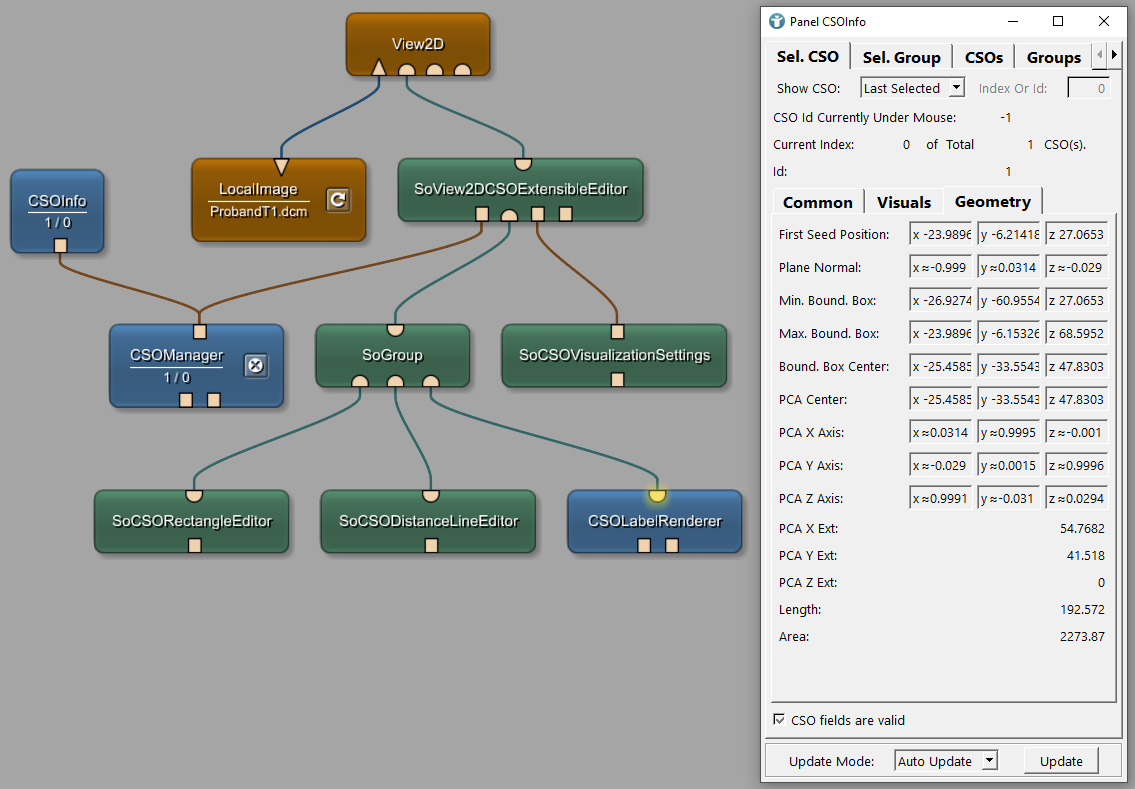
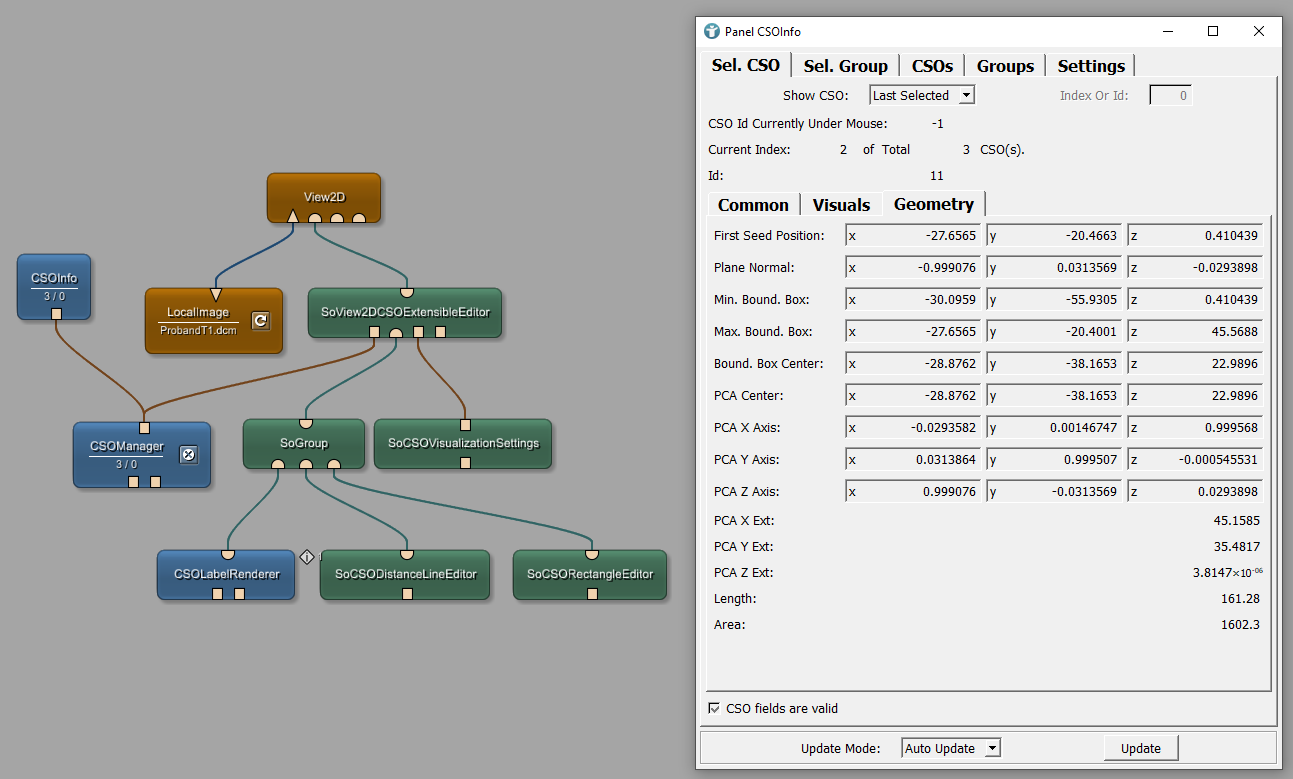
Added new tutorial and new entry to tips and tricks

diff --git a/mevislab.github.io/content/tutorials/dataobjects/contours/contourexample6.md b/mevislab.github.io/content/tutorials/dataobjects/contours/contourexample6.md
@@ -16,112 +16,216 @@ menu:
 
 ## Introduction
 
-In this example, we like to add a label to a contour. The label provides information about measurements and about the contour itself. The label remains connected to the contour and can be moved via mouse interactions.
+In this example, we are adding a label to a contour. The label provides information about measurements and about the contour itself. The label remains connected to the contour and can be moved via mouse interactions.
 
 ## Steps to do
 ### Develop your network
 
-Add the following modules to your workspace and connect them as shown. Load the example DICOM image *ProbandT1.dcm*.
+Add a `LocalImage` and a `View2D` module to your workspace and connect them as shown below. Load the file *ProbandT1.dcm* from MeVisLab demo data. In order to create contours (CSOs), we need a `SoView2DCSOExtensibleEditor` module. It manages attached CSO editors, renderers and offers an optional default renderer for all types of CSOs.
 
-![Data Objects Contours Example 6](/images/tutorials/dataobjects/contours/Ex6_1.png "Data Objects Contours Example 6")
+The first CSO we want to create is a distance line. Add a `SoCSODistanceLineEditor` to the `SoView2DCSOExtensibleEditor`. It renders and interactively generates CSOs that consist of a single line segment. The line segment can be rendered as an arrow; it can be used to measure distances.
 
-The `SoView2DCSOExtensibleEditor` manages attached CSO editors and renderers and offers an optional default renderer for all types of CSOs.
+We are going to add some more editors later. In order to have the same look and feel for all types of CSOs, add a `SoCSOVisualizationSettings` module as seen below. The module is used to adjust visual parameters like color and line style for CSOs. Also add a `CSOManager` module to organize CSOs and CSOGroups within a network.
 
-The `SoCSODistanceLineEditor` renders and interactively generates CSOs that consist of a single line segment. The line segment can be rendered as an arrow; it can be used to measure distances.
+![Initial Network](/images/tutorials/dataobjects/contours/Ex6_1.png "Initial Network")
 
-The `SoCSOVisualizationSettings` module is used to adjust visual parameters like color and line style for CSOs, while the `CSOManager` module organizes CSOs and CSOGroups within a network.
+We are now able to create lines in the `View2D`. You can also modify the lines by dragging the seed points to a different location.
 
-By using these modules, we can effectively work with CSOs in our workspace, allowing us to draw single lines, for example, to measure distances on images.
+![SoCSODistanceLineEditor](/images/tutorials/dataobjects/contours/Ex6_2.png "SoCSODistanceLineEditor")
 
-![DistanceLine](/images/tutorials/dataobjects/contours/Ex6_2.png "DistanceLine")
+The created lines do neither provide any details about the length of your measurement, nor a unique ID to identify it in case of multiple CSOs.
 
-Next, we want to add a label to the distance line showing the distance between the two points of our measurement. To achieve this, we'll use the `CSOLabelRenderer` module. Begin by adding a `SoGroup` and connecting both the `CSOLabelRenderer` and the `SoCSODistanceLineEditor` to the `SoGroup`. After moving the label with mouse, the *name* will appear above the line as illustrated below. 
-
-Adding the CSOLabelRenderer, the ID of the CSO is shown next to the measurement for all previously created CSOs. All newly created CSOs will also show the ID
+Add a `CSOLabelRenderer` module to your network and connect it to a `SoGroup`. Also connect your `SoCSODistanceLineEditor` to the `SoGroup` as seen below. The *ID* of each CSO appears next to your distance lines. Moving the ID also shows the *name* of the contour.
 
 ![CSOLabelRenderer](/images/tutorials/dataobjects/contours/Ex6_14.png "CSOLabelRenderer")
 
-The `CSOLabelRenderer` module is responsible for rendering labels for CSOs in the medical imaging context. These labels can be configured using Python scripting.
+We now want to customize the details to be shown for each distance line. Open the panel of the `CSOLabelRenderer`. You can see the two parameters *labelString* and *labelName*. The *labelString* is set to the *ID* of the CSO. The *labelName* is set to a static text and the *label* property of the CSO. The label can be defined in the module `CSOManager`. You can do this, but we are not defining a name for each contour in this example.
 
-To ensure synchronization between modules and specify the active editor for creating *distanceLine* CSOs, we need to set the same *Extension Id* in both the `SoCSODistanceLineEditor` and `SoView2DCSOExtensibleEditor` modules. In the `SoView2DCSOExtensibleEditor` module, navigate to the *General* tab and locate the *Creator Extension Id* field. Here, input the same *Extension Id* used in the `SoCSODistanceLineEditor` module. This ensures proper coordination and enables the creation of new *distanceline* CSOs using the designated editor.
-
-![Setting Extension Id in SoView2DCSOExtensibleEditor](/images/tutorials/dataobjects/contours/Example6_5.png "Setting Extension Id in SoView2DCSOExtensibleEditor")
-
-When connected to a `SoView2DCSOExtensibleEditor`, the `CSOLabelRenderer` module allows access to the currently rendered CSO. Python scripting is used to configure the labels and to define the properties of the label displayed for each CSO in the viewer. *labelString* is set to the unique ID of each CSO, while *labelName* combines the word *name* with the label assigned to the CSO. *deviceOffsetX* and *deviceOffsetY* determine the label's position relative to the CSO, both set to 0 for direct overlay. The labeling displaying the number 1 represent a default label because no specific name is provided for the CSO.
-
-Replace the default *Label Code* with the following script:
-
-{{< highlight filename="" >}}
+Enter the following to the panel of the `CSOLabelRenderer` module:
+{{< highlight filename="CSOLabelRenderer" >}}
 ```Python
-if cso.getSubType() == 'distanceLine':
-    labelString = 'Length: ' + str(cso.getLength())
-    labelName = 'Distance '
-else:
-    labelString = ''
-    labelName = ''
+labelString = 'Length: ' + str(cso.getLength())
+labelName = 'Distance: '
 labelName += str(cso.getId())
-labelCaption = labelName + ":  "
-
+deviceOffsetX = 0
+deviceOffsetY = 0
 ```
 {{</highlight>}}
 
-This script will ensure that the label displays the length of the line for *distanceLine* CSOs and remains empty for other CSO types.
+We are setting the *labelName* to a static text showing the type of the CSO and the unique *ID* of the contour. We also define the *labelString* to the static description of the measurement and the *length* parameter of the CSO.
 
-![Labeled DistanceLine in View2D](/images/tutorials/dataobjects/contours/Ex6_11.png "Labeled DistanceLine in View2D")
+![labelString and labelName](/images/tutorials/dataobjects/contours/Example6_5.png "labelString and labelName")
 
-In the `CSOLabelRenderer` panel, head to the *Options* tab. Here, you can fine-tune various settings to enhance the appearance of CSO labels. Set the *Label Border Margin X* to *5* to create a margin around selected CSOs. Increase the *Font Size* to *15* for larger and more readable text. Additionally, adjust the *Min Connecting Line Length* to *15* to specify a minimum distance for drawing connecting lines, maintaining a clean and organized layout. 
+You can also round the length by using:
+{{< highlight filename="CSOLabelRenderer" >}}
+```Python
+labelString = 'Length: ' + str(round(cso.getLength(), 2)) + ' mm'
+```
+{{</highlight>}}
 
-![CSOLabelRendering Options](/images/tutorials/dataobjects/contours/Ex6_6.png "CSOLabelRendering Options")
+In order to see all possible parameters of a CSO, add a `CSOInfo` module to your network and connect it to the `CSOManager`. The geometric informations of the selected CSO from `CSOManager` can be seen there.
 
-Now, let's proceed with another type of CSO and follow similar steps. Add the `SoCSORectangleEditor` module to your workspace and connect it to the `SoGroup` module.
+![CSOInfo](/images/tutorials/dataobjects/contours/Ex6_CSOInfo.png "CSOInfo")
 
-![SoCSORectangleEditor](/images/tutorials/dataobjects/contours/Ex6_7.png "SoCSORectangleEditor")
+For labels shown on greyscale images, it makes sense to add a shadow to your labels. Open the panel of the `SoCSOVisualizationSettings` module and on tab *Misc* check option *Should render shadow*. This increases readability of your labels.
 
-Ensure to update the *Creator Extension Id* field in the `SoView2DCSOExtensibleEditor` module with the *Extension Id* of the `SoCSORectangleEditor` module.
+{{< imagegallery 2 "/images/tutorials/dataobjects/contours/" "Ex6_NoShadow" "Ex6_Shadow" >}}
+
+If you want to define your static text as a parameter in multiple labels, you can open the panel of the `CSOLabelRenderer` module and define text as User Data. The values can then be used in Python via *userData*.
+
+![User Data](/images/tutorials/dataobjects/contours/Ex6_Parameters.png "User Data")
+
+You can also add multiple CSO editors to see the different options. Add the `SoCSORectangleEditor` module to your workspace and connect it to the `SoGroup` module. As we now have two different editors, we need to tell the `CSOLabelRenderer` which CSO to be rendered how. Open the panel of the `SoCSODistanceLineEditor`. You can see the field *Extension Id* set to *distanceLine*. Open the panel of the `SoCSORectangleEditor`. You can see the field *Extension Id* set to *rectangle*.
+
+![Extension ID](/images/tutorials/dataobjects/contours/Ex6_ExtensionID.png "Extension ID")
+
+We currently defined the *labelName* and *labelString* for the distance line. If we want to define different labels for different types of CSOs, we have to change the `CSOLabelRenderer` Python script. Open the panel of the `CSOLabelRenderer` and change the Python code to the following:
+
+{{< highlight filename="CSOLabelRenderer" >}}
+```Python
+if cso.getSubType() == 'distanceLine':
+  labelString = userData0 + str(round(cso.getLength(), 2)) + ' mm'
+  labelName = userData1
+  labelName += str(cso.getId())
+elif cso.getSubType() == 'rectangle':
+  labelString = userData0 + str(round(cso.getLength(), 2)) + ' mm\n'
+  labelString += userData2 + str(round(cso.getArea(), 2)) + ' mm^2'
+  labelName = userData3
+  labelName += str(cso.getId())
+deviceOffsetX = 0
+deviceOffsetY = 0
+```
+{{</highlight>}}
+
+![SoCSORectangleEditor](/images/tutorials/dataobjects/contours/Ex6_LineAndRectangle.png "SoCSORectangleEditor")
+
+If you now draw new CSOs, you will notice that you still always create distance lines. Open the panel of the `SoView2DCSOExtensibleEditor`. You can see that the *Creator Extension Id* is set to *__default*. By default, the first found eligible editor is used to create a new CSO. In our case this is the `SoCSODistanceLineEditor`.
+
+![SoCSORectangleEditor](/images/tutorials/dataobjects/contours/Ex6_DefaultExtension.png "SoCSORectangleEditor")
+
+Change *Creator Extension Id* to *rectangle*.
 
 ![SoCSORectangleEditor & SoView2DCSOExtensibleEditor ](/images/tutorials/dataobjects/contours/Ex6_8.png "SoCSORectangleEditor & SoView2DCSOExtensibleEditor")
 
-Open the `CSOLabelRenderer` panel and add similar script as for the *distanceLine* subtype, but include *Area* calculation as well, since we are dealing with a rectangle.
-
-{{< highlight filename="" >}}
-```Python
-...
-elif cso.getSubType() == 'rectangle':
-    labelString = str('Length: ') + str(cso.getLength()) + '\n'
-    labelString += str('Area: ') + str(cso.getArea()) + '\n'
-    labelName = 'Rectangle '
-...
-```
-{{</highlight>}}
+Newly created CSOs are now rectangles. The label values are shown as defined in the `CSOLabelRenderer` and show the length and the area of the rectangle.
 
 ![Labeled Rectangle in View2D](/images/tutorials/dataobjects/contours/Ex6_9.png "Labeled Rectangle in View2D")
 
 {{<alert class="info" caption="Extra Infos">}}
-
 The *Length* attribute in the context of rectangles represents the perimeter of the rectangle, calculated as *2a + 2b*, where *a* and *b* are the lengths of the two sides of the rectangle.
-
 {{</alert>}}
 
-Connect the `CSOInfo` module to the `CSOManager` module in your network. Then, navigate to the *Geometry* tab to access detailed information about the width (*PCA X EXT*) and height (*PCA Y EXT*) of the rectangles. 
+You will find a lot more information in the `CSOInfo` module for your rectangles. The exact meaning of the values for each type of CSO is explained in the table below.
 
 ![CSOInfo](/images/tutorials/dataobjects/contours/Ex6_10.png "CSOInfo")
 
-
-To define label placement, connect a `CSOLabelPlacementLocal` module to your `CSOLaberRenderer`. This offers three positioning options: *Seed Point*, where labels align with the right-most seed point; *Path Point*, aligning with the right-most path point; or *Seed or Path Point*, which considers both for optimal placement. 
-
-![CSOLabelPlacementLocal](/images/tutorials/dataobjects/contours/Ex6_13.png "CSOLabelPlacementLocal")
-
-{{<alert class="info" caption="Extra Infos">}}
-
-When working with an ellipse, the *length* means the perimeter around its curved edge, not its width or height. Unlike a rectangle, an ellipse doesn't have sharp corners, so its *length* is the total distance around its outer curve. You calculate it by adding twice the length of its longer side (called the major axis, represented by *a*) and twice the length of its shorter side (called the minor axis, represented by *b*), often denoted as *2πa + 2πb*. 
-
-{{</alert>}}
+## Parameters and meanings for all CSO types
+<table class="table table-striped">
+  <thead>
+    <tr>
+      <th>CSO Editor</th>
+      <th>PCA X Ext.</th>
+      <th>PCA Y Ext.</th>
+      <th>PCA Z Ext.</th>
+      <th>Length</th>
+      <th>Area</th>
+    </tr>
+  </thead>
+  <tbody>
+    <tr>
+      <td>SoCSOPointEditor</td>
+      <td>n.a.</td>
+      <td>n.a.</td>
+      <td>n.a.</td>
+      <td>n.a.</td>
+      <td>n.a.</td>
+    </tr>
+    <tr>
+      <td>SoCSOAngleEditor</td>
+      <td></td>
+      <td></td>
+      <td></td>
+      <td></td>
+      <td></td>
+    </tr>
+    <tr>
+      <td>SoCSOArrowEditor</td>
+      <td></td>
+      <td></td>
+      <td></td>
+      <td></td>
+      <td></td>
+    </tr>
+    <tr>
+      <td>SoCSODistanceLineEditor</td>
+      <td></td>
+      <td></td>
+      <td></td>
+      <td>Length (in mm)</td>
+      <td></td>
+    </tr>
+    <tr>
+      <td>SoCSODistancePolylineEditor</td>
+      <td></td>
+      <td></td>
+      <td></td>
+      <td>Length of all lines (in mm)</td>
+      <td></td>
+    </tr>
+    <tr>
+      <td>SoCSOEllipseEditor</td>
+      <td></td>
+      <td></td>
+      <td></td>
+      <td>Perimeter (in mm)</td>
+      <td>Area (in mm2)</td>
+    </tr>
+    <tr>
+      <td>SoCSORectangleEditor</td>
+      <td></td>
+      <td></td>
+      <td></td>
+      <td>Length of all sides (in mm)</td>
+      <td>Area (in mm2)</td>
+    </tr>
+    <tr>
+      <td>SoCSOSplineEditor</td>
+      <td></td>
+      <td></td>
+      <td></td>
+      <td></td>
+      <td></td>
+    </tr>
+    <tr>
+      <td>SoCSOPolygonEditor</td>
+      <td></td>
+      <td></td>
+      <td></td>
+      <td>Length of all lines (in mm)</td>
+      <td></td>
+    </tr>
+    <tr>
+      <td>SoCSOIsoEditor</td>
+      <td></td>
+      <td></td>
+      <td></td>
+      <td></td>
+      <td></td>
+    </tr>
+    <tr>
+      <td>SoCSOLiveWireEditor</td>
+      <td></td>
+      <td></td>
+      <td></td>
+      <td></td>
+      <td></td>
+    </tr>
+  </tbody>
+</table>
 
 ## Summary
-* Labels can be added to contours using the `CSOLabelRenderer` module. 
+* Custom labels can be added to contours using the `CSOLabelRenderer` module. 
 * Python scripting is used within the `CSOLabelRenderer` module to customize label content based on CSO types.
-* Visiual properties can be adjusted within the `CSOLabelRenderer` and the `SoCSOVisualizationSettings` modules to improve label visibility and appearance. 
-* `SoView2DCSOExtensibleEditor` and `SoCSODistanceLineEditor` are interduced for managing and interacting with CSOs. 
-* Label placement strategies for CSOs can be defined using the `CSOLabelPlacementLocal` module.
+* Visual properties can be adjusted within the `CSOLabelRenderer` and the `SoCSOVisualizationSettings` modules to improve label visibility and appearance.
 
 {{< networkfile "examples/data_objects/contours/example6/ContourExample6.mlab" >}} 

diff --git a/mevislab.github.io/content/tutorials/shorts.md b/mevislab.github.io/content/tutorials/shorts.md
@@ -21,6 +21,7 @@ This chapter shows some features and functionalities which are helpful but do no
 * [Using Snippets](/tutorials/shorts#snippets)
 * [Scripting Assistant](/tutorials/shorts#scriptingassistant)
 * [User Scripts](/tutorials/shorts#user_scripts)
+* [Show status of module in- and output](/tutorials/shorts#mlimagestate)
 
 ## Keyboard Shortcuts {#shortcuts}
 This is a collection of useful keyboard shortcuts in MeVisLab, hopefully it grows continuously.
@@ -157,3 +158,21 @@ QApplication.setPalette(palette)
 This script defines the color of the MeVisLab user interface elements. You can define other colors and more items, this is just an example of what you can do with user scripts.
 
 Switch back to the MeVisLab IDE and select the menu item {{< menuitem "Extras" "Reload Module Database (Clear Cache)">}} again. The colors of the MeVisLab IDE change as defined in our Python script. This change persists until you restart MeVisLab and can always be repeated by selecting the menu entry or the keyboard shortcut {{< keyboard "ctrl+F9" >}}.
+
+## Show status of module in- and output {#mlimagestate}
+
+Especially in large networks it is useful to see the state of the in- and output connectors of a module. By default, the module connectors do not show if data is available. Below image shows a `DicomImport` module and a `View2D` module where no data is loaded.
+
+![No status on connector](/images/tutorials/LMIMageState_Off.png "No status on connector")
+
+In MeVisLab preferences dialog, you can see a checkbox *Show ML image state*. By default, the setting is *Off*.
+
+![Show ML image state](/images/tutorials/LMIMageState.png "Show ML image state")
+
+After enabling *Show ML image state*, your network changes and the in- and output connectors appear red in case no data is available at the output.
+
+![No data on connector](/images/tutorials/LMIMageState_On_1.png "No data on connector")
+
+After loading a valid DICOM directory, the connectors providing a valid ML image appear green. The previously red outputs are beige again, showing there is data available.
+
+![No data on connector](/images/tutorials/LMIMageState_On_2.png "No data on connector")

diff --git a/mevislab.github.io/content/tutorials/summary/summary6.md b/mevislab.github.io/content/tutorials/summary/summary6.md
@@ -13,6 +13,9 @@ menu:
     parent: "summary"
 ---
 # Step 6: Refine - Update Application
+
+{{< youtube "1v_UyGs8W1g" >}}
+
 ## Introduction
 In previous step you developed an application which can be installed on your customers systems for usage. In this step we are going to integrate simple feedback into our executable and re-create the installer.
 
